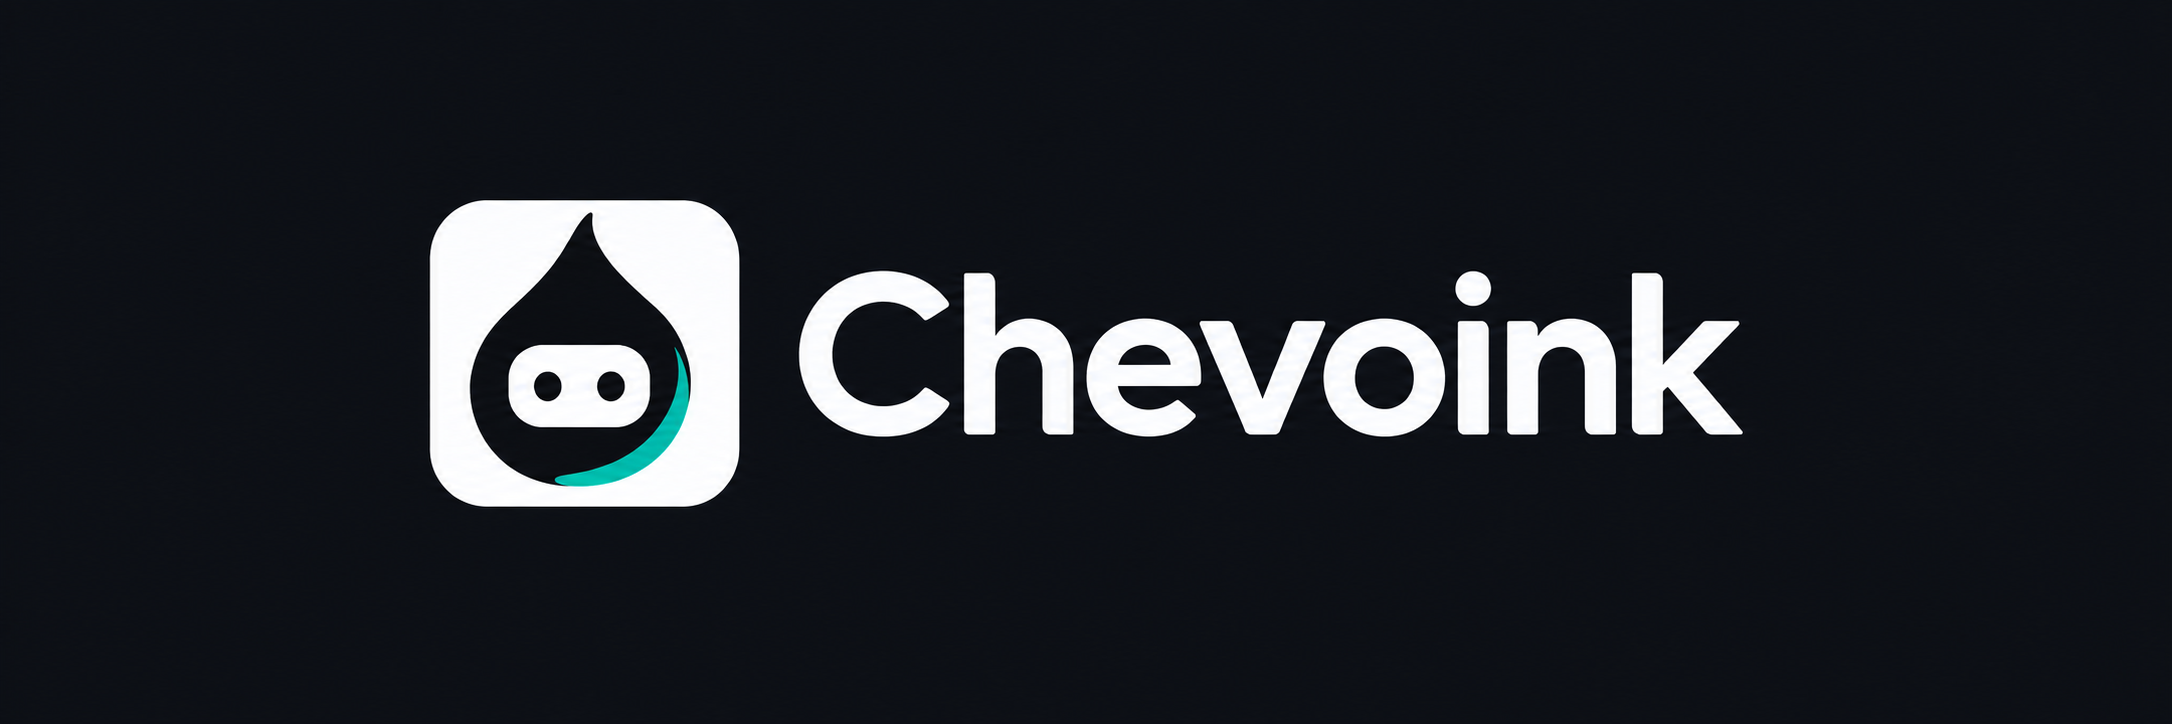
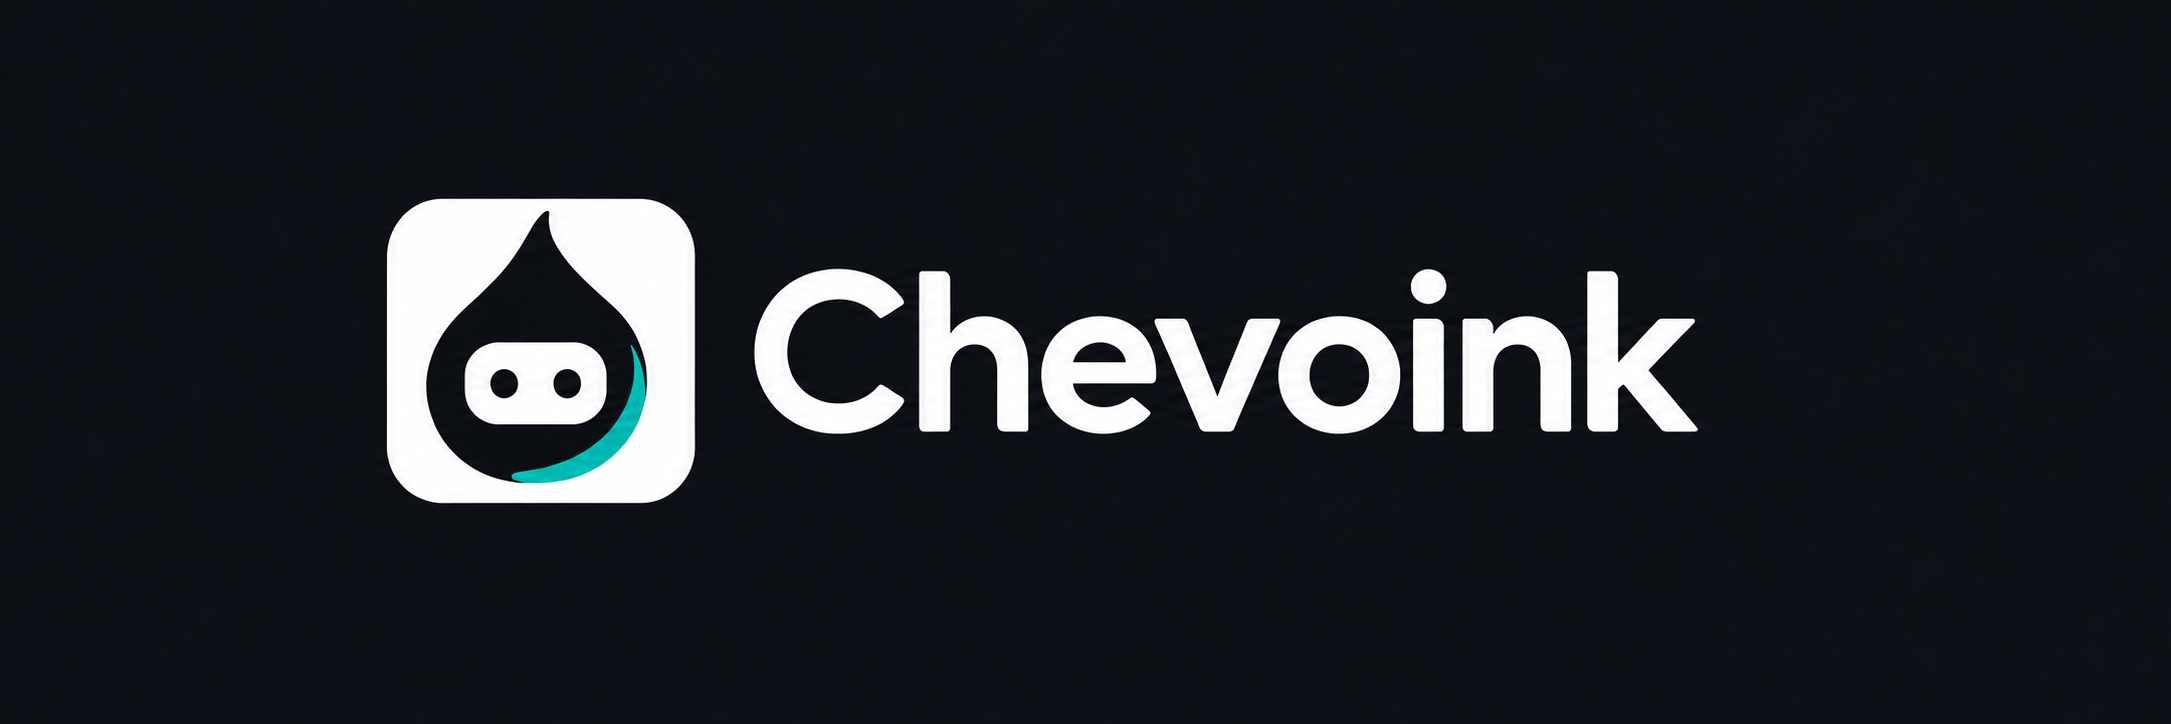
微调 README 横幅视觉居中

Changed region(s): [[0.1543, 0.2735, 0.8024, 0.6989]]

diff --git a/docs/assets/chevoink-readme-banner.prompt.md b/docs/assets/chevoink-readme-banner.prompt.md
@@ -1,11 +1,17 @@
 # README banner generation record
 
 - Tool: built-in image generation (`image_gen`), not the API/CLI fallback.
-- Output: [chevoink-readme-banner.png](./chevoink-readme-banner.png), 2172 × 724 PNG.
+- Output: [chevoink-readme-banner.png](./chevoink-readme-banner.png), 2171 × 724 PNG.
 - Brand reference: [current project icon](../../public/favicon.png).
 - Layout reference: user-provided DeterminFlow README screenshot, layout only.
 - Revision: plain dark background, icon on the left, only “Chevoink” on the right. No Chinese subtitle, decorative curves or glow. Application icons are unchanged.
 
-## Final prompt
+## Latest optical-centering edit
+
+Built-in image generation moved the icon/wordmark group left for optical balance. The README layout and text were not changed. The requested pixel offset below is an editing target, not a pixel-exact translation guarantee.
+
+Precise layout edit of the provided existing 2172x724 README banner. Keep the SAME canvas dimensions/aspect ratio. Make exactly ONE change: translate the ENTIRE icon-plus-Chevoink-wordmark group 30 pixels to the LEFT (about 1.38 percent of the canvas width), with ZERO vertical movement. Move icon and text together as a rigid group: preserve their exact relative spacing, original size, font, letter shapes, colors, icon silhouette, face, turquoise swoosh and white tile. Do not redraw, enlarge, shrink, restyle or re-center the group. Current group left edge approximately x430; target left edge approximately x400, right edge also shifts left by 30. Preserve existing flat dark background, filling any vacated pixels with matching dark background. ONLY text is Chevoink. No new elements, no glow, no decoration, no Chinese, no extra padding or canvas crop. This is a tiny optical-centering correction, not a new design.
+
+## Original generation prompt
 
 Create a replacement GitHub README banner, extremely minimal like input image 2. Input 1: the existing Chevoink icon, identity reference to retain faithfully (black ink droplet with a white face, two black dot eyes, turquoise swoosh). Input 2: the DeterminFlow reference screenshot, composition and simplicity ONLY; never reproduce its branding or UI. Landscape 3:1. Entire background MUST be a perfectly uniform solid #0d1117: absolutely NO curves, strokes, patterns, glow, halo, gradient, vignette, noise, shadows, texture or decoration. ONE single horizontal row vertically centered: existing project icon on the LEFT, then ONLY the word 'Chevoink' on the RIGHT. Icon around the left quarter of the canvas with generous left margin, wordmark directly beside it with balanced spacing; the whole icon-wordmark group fills about 76% of width. Preserve icon precisely on a simple flat white rounded-square backing to retain contrast, no shadow, no shine, no 3D. Text is large off-white, clean medium-weight modern sans serif matching the restrained typography of the reference, not overly heavy or stylized. Exact text: Chevoink (C-h-e-v-o-i-n-k). There must be no Chinese text, subtitle, tagline, labels, badges, dividers, corner marks, watermark, interface or other content. Deliver the actual flat banner image, not a screenshot. Lots of clean solid dark negative space above and below. Brand clarity, horizontal icon-left/word-right alignment and plain background are the highest priorities.
